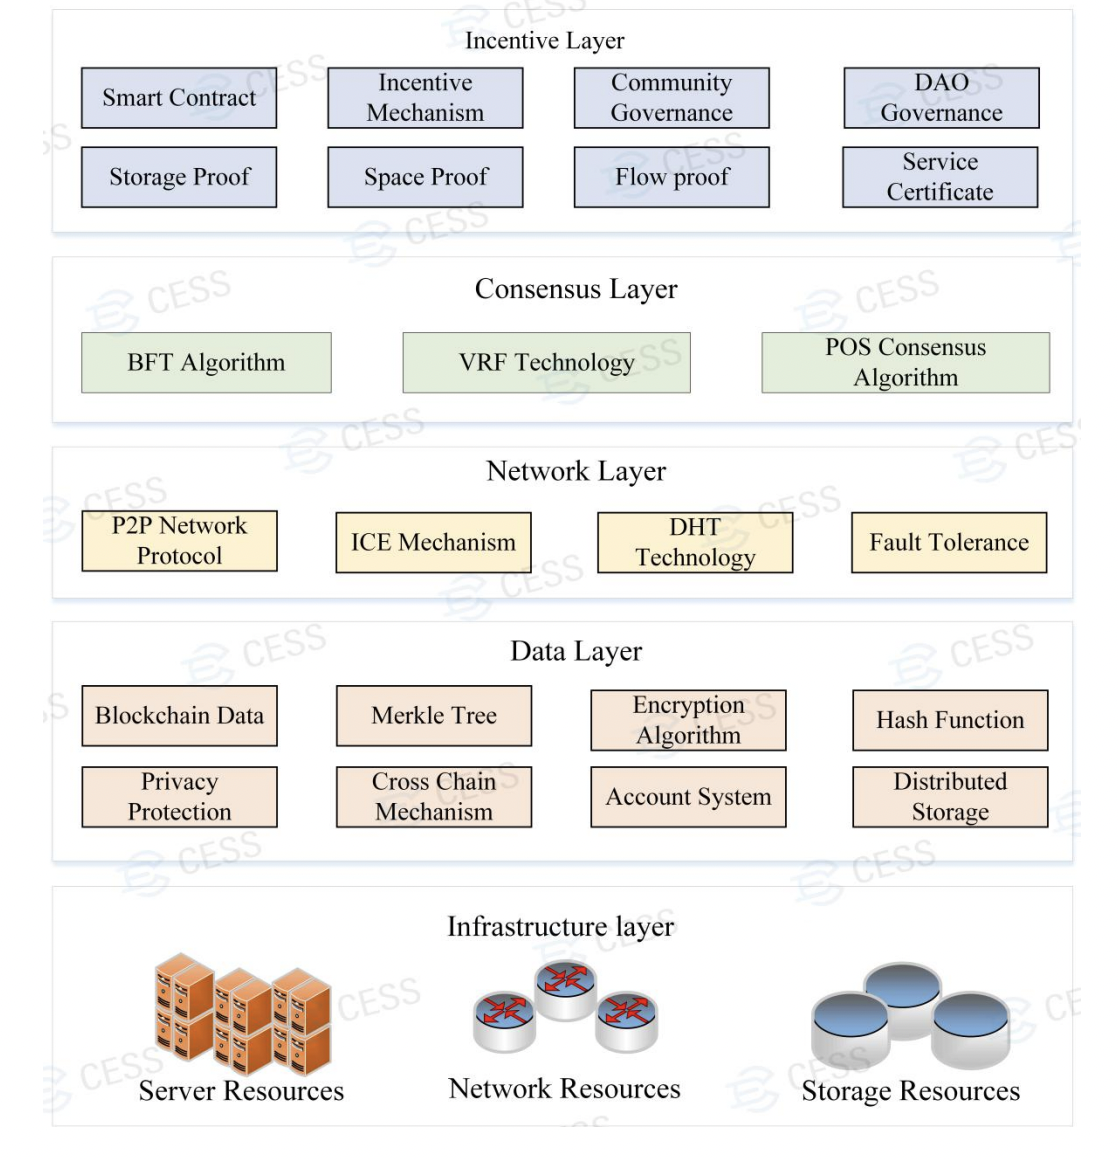
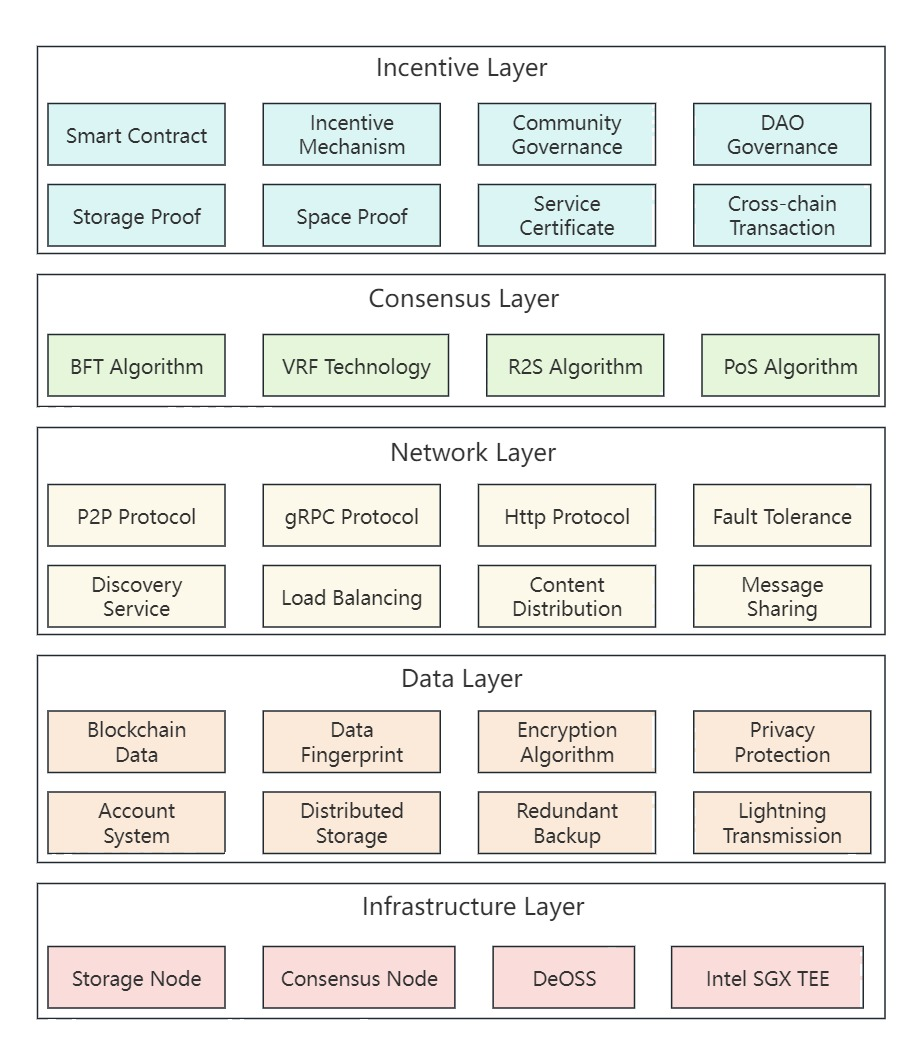
updated (#19)
* updated

* updated

* updated

diff --git a/concepts/blockchain-arch.md b/concepts/blockchain-arch.md
@@ -1,13 +1,12 @@
-区块链层进一步分为五个层次：
+区块链层可进一步分为五个层次：
 
 ![区块链架构](../assets/concepts/blockchain-arch/blockchain-arch.png)
 
-
-(todo: check to see if the image need to be updated)
+从下而上，它们分别为：
 
 **基础设施层** - 包括用于 CESS 区块链的服务器、网络硬件和存储硬件等硬件设备。
 
-**数据层** - 支持可扩展的数据存储，提供各种数据处理算法。
+**数据层** - 支持可扩展的数据存储，并提供一系列数据处理和数据安全保证机制，如冗余备份、隐私保护、完整性验证。
 
 **网络层** - 负责节点连接和数据传输，提供负载均衡、P2P 网络协议和算法。
 
@@ -17,33 +16,25 @@
 
 # 基础设施层
 
-CESS 邀请三种资源加入网络：服务器资源、网络资源和存储资源。服务器资源专注于计算性能，将承载计算和调度任务。网络资源将提供网络带宽支持。存储资源是 CESS 系统的核心部分。我们需要吸引具有存储能力的节点加入网络，以提供稳定可靠的数据存储基础设施，并为统一调度和管理 CESS 平台资源构建坚实的基础。
+CESS 邀请三种类型的资源加入网络：DeOSS 网关、存储节点、和共识节点。DeOSS 网关负责代理用户数据的上传、下载、加密、和预处理，并支持构建分布式内容分发网络，为用户提供简单、高效、快速的数据访问服务。存储节点接受共识节点的调度，为 CESS 构建稳定可靠的数据持久化基础设施。共识节点则专注于各种资源的调度和存储网络状态的共识，并通过可信执行环境验证整个网络的存储数据和可用容量，以确保服务的稳定性和数据的安全性。
 
 # 数据层
 
-数据层存储 CESS 区块链数据，以及来自 CESS 存储客户端的数据文件。为了确保用户数据文件的安全和完整性，采用了加密算法进行数据传输、存储和验证，例如数字签名、哈希算法、默克尔树（Merkle Tree）等。
+数据层在 CESS 区块链上维护元数据和用户数据，这些数据分散存储在各个存储节点中。用户可以选择加密并存储数据以保护隐私。存储在 CESS 中的任何数据都需要经过冗余和分片，然后随机分布到各个存储节点，以防止由于单点故障问题导致的数据丢失。CESS 还将通过多副本可恢复的存储证明机制定期对数据进行完整性检查，以确保数据的安全性、完整性和持久存储。
 
 # 网络层
 
-为了确保高效访问网络中的数据，我们将构建基于分布式哈希表（DHT）的 P2P 存储网络。
-
-## P2P 存储网络
-
-这是一种分布式应用程序架构，将任务和工作负载分布在对等节点之间。因此，整个网络不依赖于专用的集中式服务器，每台计算机在网络中既是请求方又是响应方，为其他计算机提供资源和服务。
-
-## 分布式哈希表 (DHT)
-
-分布式哈希表（DHT）是一种分布式存储方法。每个客户端负责一小部分路由和存储一小部分数据，从而实现对整个 DHT 网络的寻址和存储。只要客户端连接到 DHT 网络中的任何节点，客户端就可以找到更多节点连接到网络。DHT 技术使得网络中的任何计算机都能执行部分服务器的功能。
+CESS 具有分布式网络架构，通过去中心化的区块链网络分配任务和工作负载。每个层次内的节点在内部是无差别的，既可以是请求者也可以是应答者，彼此提供资源和服务。CESS 还将对网络进行分层，建立区块链共识网络，存储节点之间的数据传输网络，以及 DeOSS 之间的数据缓存和共享网络。每个网络将与其他网络协作，为 CESS 提供稳定高效的数据传输服务。
 
 # 共识层
 
-为了确保区块链网络上的交易和活动能够快速达成共识，CESS 提出了一种创新的基于拜占庭容错的随机选取轮值共识（R²S）机制，以提高系统的性能和可扩展性。
+为了确保区块链网络上的交易和活动能够快速达成共识，CESS 提出了一种创新的基于拜占庭容错的随机选取轮值共识（Random Rotational Selection，简称 R²S）机制，以提高系统的性能和可扩展性。
 
-CESS 网络中有两种类型的共识节点：**候选共识节点** 与 **当值共识节点**。理论上，任何节点都可以通过质押成为共识节点，且对候选共识节点的数量没有限制。为了提高可靠性，CESS 使用信用评级方法验证节点，并选择合格节点作为候选共识节点。在每个时间窗口内，CESS 随机选择下一个 **11 个共识节点** 作为新的主动共识节点。当值共识节点将负责链上交易验证、数据打包和数据块生成。CESS 共识机制的目标是实现网络安全、系统透明、随机性和对矿工的公平性。
+CESS 网络中有两种类型的共识节点：**候选共识节点** 与 **当值共识节点**。理论上，任何节点都可以通过质押成为共识节点，且对候选共识节点的数量没有限制。为了提高可靠性，CESS 使用信用评级方法验证节点，并选择合格节点作为候选共识节点。在每个时间窗口内，CESS 随机选择下一个 **11 个共识节点** 作为新的主动共识节点。当值共识节点将负责链上交易验证、数据打包和数据块生成。CESS 共识机制的目标是实现网络安全、系统透明、随机性、和对矿工的公平性。
 
 # 激励层
 
-与任何分布式文件系统一样，CESS 的主要系统资源是存储和网络资源。矿工可以提供这两种类型的资源加入 CESS 网络，CESS 系统将根据他们对网络的贡献奖励他们 CESS 代币。CESS 有一个算法来计算每个矿工对网络的贡献。该算法是一个综合共识算法，考虑了矿工的存储容量、网络带宽和节点配置等因素，以计算整体节点得分，从而确定 CESS 代币的奖励。
+与任何分布式文件系统一样，CESS 的主要系统资源是存储和网络资源。矿工可以提供这两种类型的资源加入 CESS 网络，CESS 系统将根据他们对网络的贡献奖励他们 CESS 代币。
 
 # CESS 的去中心化性质
 
@@ -53,6 +44,6 @@ CESS 代币将按以下方式分发：
 
 **共识挖矿**：具有合格计算资源的矿工可以通过质押 CESS 代币成为候选共识节点。如果被 CESS 随机选取轮值共识机制选为活跃验证节点之一，即可获得奖励。
 
-**社区治理和贡献**：为了推广 CESS 网络，开发者、社区成员、和合作伙伴可以提交他们的提案并获得社区投票。当形成法定人数时，将从区块链系统中发放相应的奖励。提案将在去中心化自治组织（DAO）的治理下进行。CESS 社区通过投票透明地运作社区发展基金（Community Development Fund）。
+**社区治理和贡献**：为了推广 CESS 网络，开发者、社区成员、和合作伙伴可以提交他们的提案并获得社区投票。当形成法定人数时，将从区块链系统中发放相应的奖励。提案将在去中心化自治组织（DAO）的治理下进行。CESS 社区通过投票透明地运作社区发展基金（Community Development Fund, 简称 CDF）。
 
 **代币分发**：所有与激励相关的活动都是基于智能合约实施的。这确保了 CESS 激励机制的公平性和透明性。

diff --git a/concepts/blockchain-core/transaction.md b/concepts/blockchain-core/transaction.md
@@ -1,26 +1,26 @@
 作为区块链不可或缺的组成部分，交易提供了修改链上存储的信息状态的机制。每个交易历史都会被记录在区块中。交易有以下三种类型：
 
-- 签名交易 (Signed Transaction)
+- 具签名交易 (Signed Transaction)
 - 不具签名交易 (Unsigned Transaction)
 - 原生交易 (Inherent Transaction)
 
-# 签名交易
+# 具签名交易
 
-在 CESS 网络中，签名交易是最常见的交易类型。在发送签名交易请求时，必须附上请求账户的签名。通常，这是通过使用请求账户的私钥对交易内容进行签名来实现的。此外，请求账户还需要支付交易费用。交易费用和其他元素的处理方法取决于程序逻辑。
+在 CESS 网络中，具签名交易是最常见的交易类型。在发送签名交易请求时，必须附上请求账户的签名。通常，这是通过使用请求账户的私钥对交易内容进行签名来实现的。此外，请求账户还需要支付交易费用。交易费用和其他元素的处理方法取决于程序逻辑。
 
-对于签名交易，只有发送方需要支付交易费用。例如，如果您需要将一定数量的代币从您的账户转账给其他人，您可以在[**Balances Pallet**](https://paritytech.github.io/substrate/master/pallet_balances)中调用 [`transfer`](https://paritytech.github.io/substrate/master/pallet_balances/pallet/struct.Pallet.html#method.transfer) 外部函数。由于您的账户发起了这笔交易，您应该使用您的账户私钥对交易进行签名。同时，在发送请求的过程中，您可以选择添加小费，以提高该交易在网络中的处理优先级。
+对于签名交易，只有发送方需要支付交易费用。例如，如果您需要将一定数量的代币从您的账户转账给其他人，您可以在[**Balances 模塊**](https://paritytech.github.io/substrate/master/pallet_balances)中调用 [`transfer`](https://paritytech.github.io/substrate/master/pallet_balances/pallet/struct.Pallet.html#method.transfer) 外部函数。由于您的账户发起了这笔交易，您应该使用您的账户私钥对交易进行签名。同时，在发送请求的过程中，您可以选择添加小费，以提高该交易在网络中的处理优先级。
 
 # 不具签名交易
 
-绝大多数交易都是签名交易。只有少数未签名交易不是由用户发起的，而是通过链下工作程序由网络请求的。
+绝大多数交易都是签名交易。只有少数未签名交易不是由用户发起的，而是通过链下工作機由网络请求的。
 
-未签名交易不会收取任何费用，也不需要请求者的信息。这意味着未签名交易没有经济限制，因此可能会出现垃圾请求或重放攻击。
+不具签名交易不会收取任何费用，也不需要请求者的信息。这意味着不具签名交易没有经济限制，因此可能会出现垃圾请求或重放攻击。
 
-因此，在执行未签名交易之前，必须非常严格地检查。此外，由于未签名交易涉及用户定义的验证过程，它们通常比已签名交易消耗更多资源。
+因此，在执行不具签名交易之前，必须非常严格地检查。此外，由于不具签名交易涉及用户定义的验证过程，它们通常比已签名交易消耗更多资源。
 
-在 CESS 网络中，只有当前轮值的验证者可以发起未签名交易。请求内容需要附带特定账户的签名摘要，以通过 CESS 网络中的用户定义验证。
+在 CESS 网络中，只有当前轮值的验证者可以发起不具签名交易。请求内容需要附带特定账户的签名摘要，以通过 CESS 网络中的用户定义验证。
 
-在 Substrate 框架中还有一个使用未签名交易的模块，即 [`pallet_im_online::pallet::Call::heartbeat`](https://paritytech.github.io/substrate/master/pallet_im_online/pallet/struct.Pallet.html#method.heartbeat) 的調用。此交易允许验证者节点向网络发送消息以确认节点在线状态。对于此交易，Substrate 有严格的验证过程，只允许注册为验证者节点的账户发送该心跳消息。这样的措施确保了网络中验证者节点的可靠性和安全性。
+在 Substrate 框架中还有一个使用不具签名交易的模块，即 [`pallet_im_online::pallet::Call::heartbeat`](https://paritytech.github.io/substrate/master/pallet_im_online/pallet/struct.Pallet.html#method.heartbeat) 的调用。此交易允许验证者节点向网络发送消息以确认节点在线状态。对于此交易，Substrate 有严格的验证过程，只允许注册为验证者节点的账户发送该心跳消息。这样的措施确保了网络中验证者节点的可靠性和安全性。
 
 # 原生交易
 

diff --git a/concepts/node-roles.md b/concepts/node-roles.md
@@ -16,26 +16,29 @@ CESS 网络主要包括两种节点类型：**共识节点** 和 **存储节点*
 CESS 节点是 CESS 网络的核心组件。是基于 Substrate 框架开发的区块链节点程序。
 
 {% hint style="info" %}
-如果同时运行 TEE Worker，则运行在全节点模式的 CESS 节点将被选举为验证者，负责生产和验证区块。
+如果同时运行 TEE Worker，则运行在全节点模式的 CESS 节点将可被选为验证者，负责生产和验证区块。
 {% endhint %}
 
 ## **TEE Worker**
 
-TEE Worker 的主要任务是标记数据并生成文件以验证存储节点上的存储。[TEE](https://en.wikipedia.org/wiki/Trusted_execution_environment) 中完成的每一项作业都是防篡改、可验证的，可以有效保证数据的真实性。
+TEE Worker 的主要任务是为用户在 PoDR2（Proof of Data Reduplication and Recovery）中使用的文件标记数据（生成文件标签），并为存储矿工在 PoIS（闲置空间证明）证明中提供的空间生成占位的闲置文件。在 TEE Worker 中完成的每项工作都是防篡改和可验证的，可以有效确保数据的真实性。
 
 TEE Worker 基于 [Gramine 库](https://gramineproject.io/)开发，目前仅支持 [Intel 系列芯片](https://www.intel.com/content/www/us/en/developer/articles/tool/intel-trusted-execution-technology.html)。
 
-TEE Worker 绑定共识节点，只有用共识节点的账户签名注册交易后才能工作。对硬件性能要求较高，需要 TEE 功能的硬件支持，需要强大的 CPU 才能快速完成打标任务。因此，这虽然成本较高，但也为矿工赚取了更多奖励。
+TEE Worker 与共识节点绑定，只有在注册了共识节点的帐户签名的交易后才能工作。它需要相对较高的硬件要求，并需要 TEE 功能的支持。为了平衡较高的成本，矿工也会获得更高的奖励。
 
-如果您有兴趣运行共识节点，请参阅 [**生态角色：共识矿工**](https://www.notion.so/o/FsIgz09ubmGQUNERT1yp/s/Amt4KS3sOQ22dgD6uOuE/consensus-miner)。
+
+{% hint style="success" %}
+如果您有兴趣运行共识节点，请参阅 [**生态角色：共识矿工**](../consensus-miner) 部份。
+{% endhint %}
 
 # 存储节点
 
-存储节点在 CESS 网络的分布式存储系统中发挥着另一个至关重要的作用。所有节点都是对等体，采用基于 P2P 通信技术形成全球分布式存储网络[libp2p](https://github.com/libp2p/go-libp2p) 执行。
+存储节点在 CESS 网络的分布式存储系统中发挥着另一个至关重要的作用。所有節點都是同級別，並采用 P2P 通信技术形成全球分布式存储网络[libp2p](https://github.com/libp2p/go-libp2p) 执行。
 
 存储节点负责提供存储空间、存储数据、提供下载、计算数据证明。他们还控制使用哪个磁盘以及为 CESS 网络提供服务的最大存储容量。提供的存储量越大，获得的奖励就越高。
 
-CESS 网络激励存储节点提供 4TB 及以上磁盘容量，最好采用 SSD，网络带宽不低于 2Mbps。满足这一要求的存储节点可以加速产生更高的奖励。
+CESS 网络激励存储节点提供 4GB 及以上磁盘容量，最好采用 SSD，网络带宽不低于 2Mbps。满足这一要求的存储节点可以取得更高的收益。
 
 ## 链客户端组件
 
@@ -49,4 +52,6 @@ CESS 网络激励存储节点提供 4TB 及以上磁盘容量，最好采用 SSD
 
 P2P 通信组件基于 [**libp2p**](https://libp2p.io/) 开发，实现存储节点之间形成 P2P 网络。有关详细信息，请参阅 GitHub 存储库 [CESSProject/p2p-go](https://github.com/CESSProject/p2p-go)。
 
-如果您有兴趣运行存储节点，请参阅[**生态角色：存储矿工**](https://www.notion.so/o/FsIgz09ubmGQUNERT1yp/s/Amt4KS3sOQ22dgD6uOuE/storage-miner) 部分。
+{% hint style="success" %}
+如果您有兴趣运行存储节点，请参阅[**生态角色：存储矿工**](../storage-miner) 部份。
+{% endhint %}

diff --git a/concepts/README.md b/concepts/README.md
@@ -1,1 +1,5 @@
-在本部分，我们将介绍 CESS 系统中的关键概念，深入探讨 CESS 的[整体系统架构](system-arch.md)，[CESS 区块链的架构](blockchain-arch.md)，及[回顾区块链核心的基础概念](blockchain-core/README.md)。
+在本部分，我们将介绍 CESS 系统中的关键概念，包括：
+
+- 探讨 CESS 的[整体系统架构](system-arch.md)
+- [CESS 区块链的架构](blockchain-arch.md)，及
+- 回顾一些 [区块链的核心概念](blockchain-core/README.md)。
